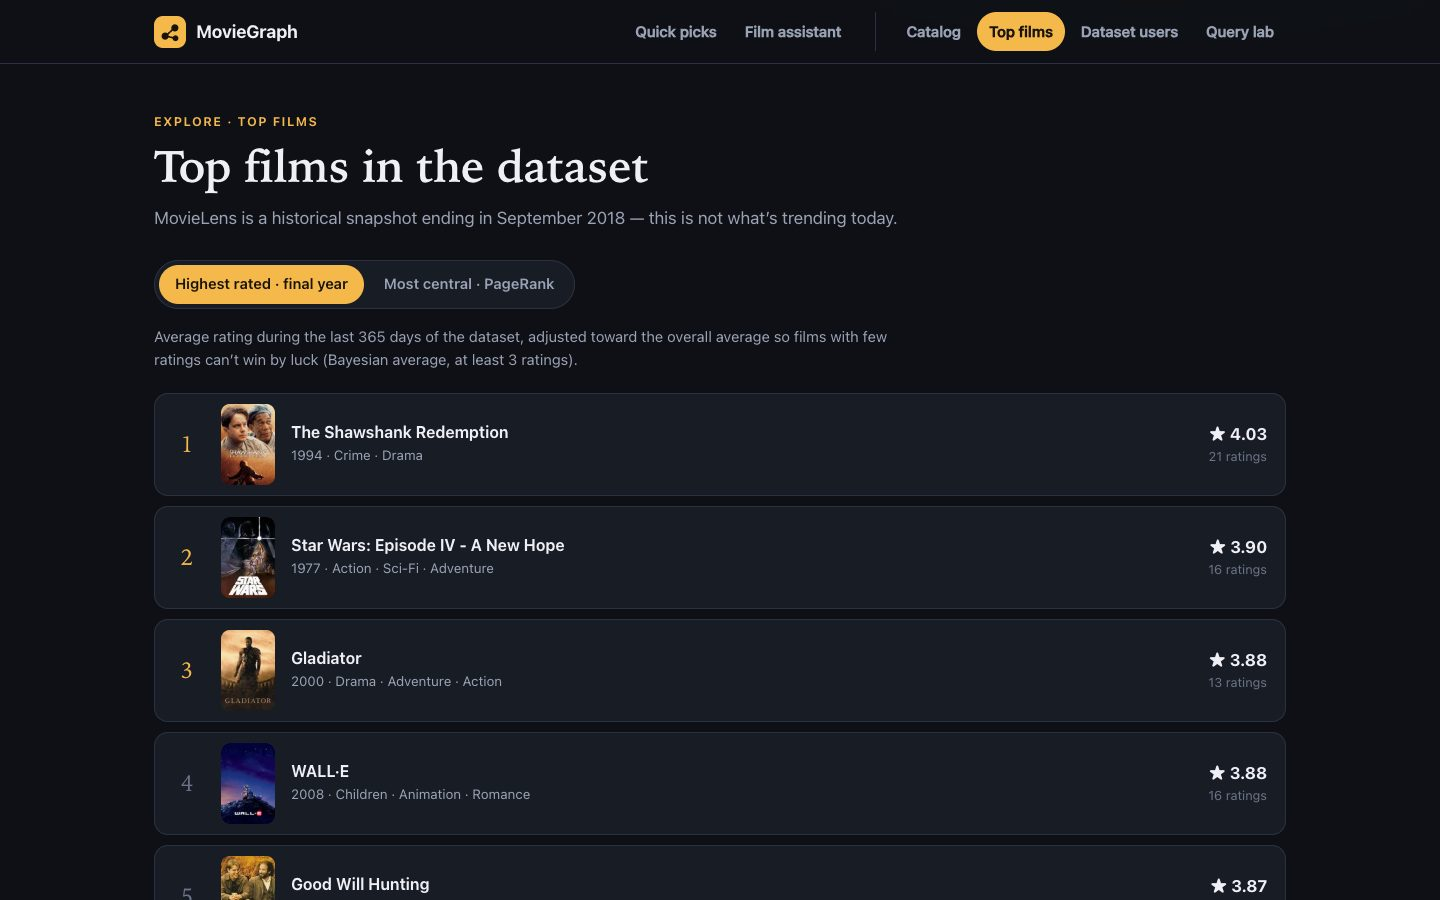
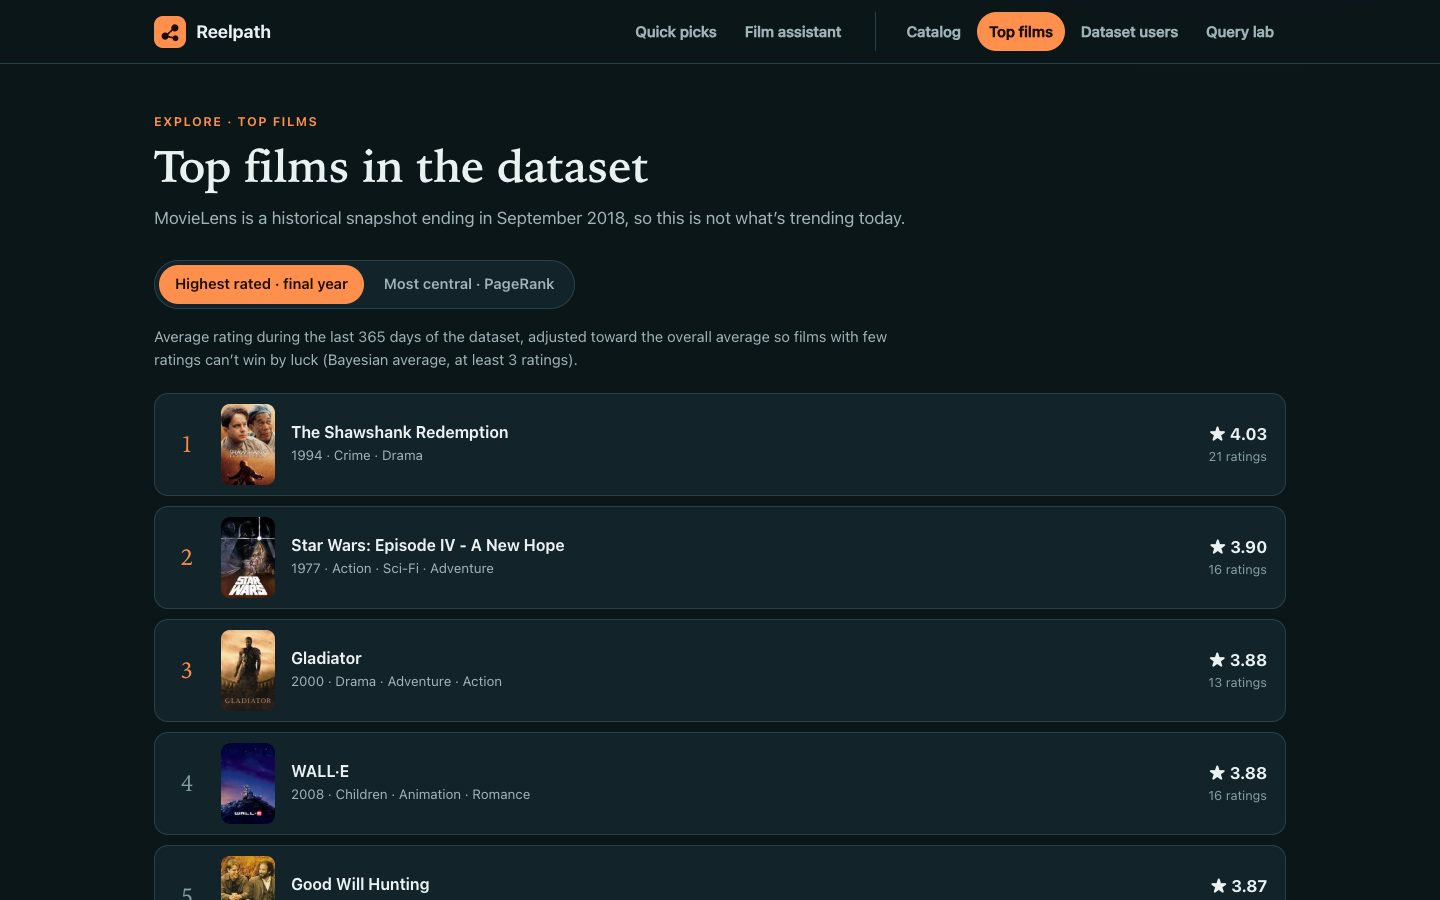
docs: explain the name and colour choices and refresh screenshots

diff --git a/README.md b/README.md
@@ -1,6 +1,6 @@
 <div align="center">
 
-# 🎬 MovieGraph
+# 🎬 Reelpath
 
 ### Pick films you love. See what to watch next, and exactly why.
 
@@ -17,7 +17,7 @@ with **Graph Data Science** algorithms, a guarded **natural-language → Cypher*
 **Can Oktay** · Student no. B00818187 · AIDAMS 3A, Graph Databases
 Project 4 · *Movie Recommender in Production* (Level 2)
 
-<img src="docs/screenshots/ui-home.jpg" alt="MovieGraph home page" width="900">
+<img src="docs/screenshots/ui-home.jpg" alt="Reelpath home page" width="900">
 
 </div>
 
@@ -27,17 +27,18 @@ Project 4 · *Movie Recommender in Production* (Level 2)
 
 1. [What it does](#what-it-does)
 2. [Tour of the application](#tour-of-the-application)
-3. [Quick start](#quick-start)
-4. [Architecture](#architecture)
-5. [Graph model](#graph-model)
-6. [How recommendations are computed](#how-recommendations-are-computed)
-7. [Language-model components and guardrails](#language-model-components-and-guardrails)
-8. [API reference](#api-reference)
-9. [Quality, evaluation and performance](#quality-evaluation-and-performance)
-10. [Commands](#commands)
-11. [Repository layout](#repository-layout)
-12. [Data sources and attribution](#data-sources-and-attribution)
-13. [Limitations](#limitations)
+3. [Design choices](#design-choices)
+4. [Quick start](#quick-start)
+5. [Architecture](#architecture)
+6. [Graph model](#graph-model)
+7. [How recommendations are computed](#how-recommendations-are-computed)
+8. [Language-model components and guardrails](#language-model-components-and-guardrails)
+9. [API reference](#api-reference)
+10. [Quality, evaluation and performance](#quality-evaluation-and-performance)
+11. [Commands](#commands)
+12. [Repository layout](#repository-layout)
+13. [Data sources and attribution](#data-sources-and-attribution)
+14. [Limitations](#limitations)
 
 ---
 
@@ -124,6 +125,22 @@ The deterministic controller runs the ten rounds itself; the local model is only
 
 ---
 
+## Design choices
+
+**Name.** *Reelpath* joins a film reel and a path: every recommendation is literally a path through the graph, from a film you picked, through the people who loved it, to the next film. (The repository keeps its original name, `moviegraph`.)
+
+**Two colours, teal and orange.** The interface uses one hue for surfaces and its complement for actions, and lets the posters carry every other colour.
+
+| Role | Colour | Why |
+|---|---|---|
+| Surfaces | Teal-tinted near-black `#0b1619` to `#1a2f37` | Dark, low-saturation surfaces recede, so colourful posters stand out. A tinted dark grey instead of pure black reduces halation of light text, which mostly affects readers with astigmatism. |
+| Actions and highlights | Orange `#ff8f4d` | Orange is the complement of teal, the largest hue contrast for buttons and links. It is the same *orange and teal* pairing used in film colour grading, where warm skin tones are separated from cool backgrounds. |
+| Text | Off-white `#e9f1f1`, muted `#9fb4b7` | Softer than pure white on dark backgrounds. |
+
+Measured WCAG contrast on the page background: body text 16:1, muted text 8.5:1, orange 8.1:1, and dark text on orange buttons 8.4:1, all above the AA threshold of 4.5:1. Sources: [PetaPixel on the orange and teal look](https://petapixel.com/2017/02/23/orange-teal-look-popular-hollywood/), [Adobe on why orange and teal grading works](https://www.adobe.com/creativecloud/video/hub/features/why-use-orange-teal-grading), [overview of polarity and halation research](https://a11ywithdiana.substack.com/p/and).
+
+---
+
 ## Quick start
 
 **Requirements:** Python 3.12+, Docker with Compose v2, Git, Node.js 20+ (frontend tests only). Allow 4–6 GB of Docker memory.
@@ -141,7 +158,7 @@ make demo           # live HTTP smoke checks
 
 | Service | URL |
 |---|---|
-| **MovieGraph** | http://localhost:18080 |
+| **Reelpath** | http://localhost:18080 |
 | Swagger / OpenAPI | http://localhost:18080/docs |
 | Neo4j Browser | http://localhost:17474 (Bolt `17687`, credentials in your `.env`) |
 
